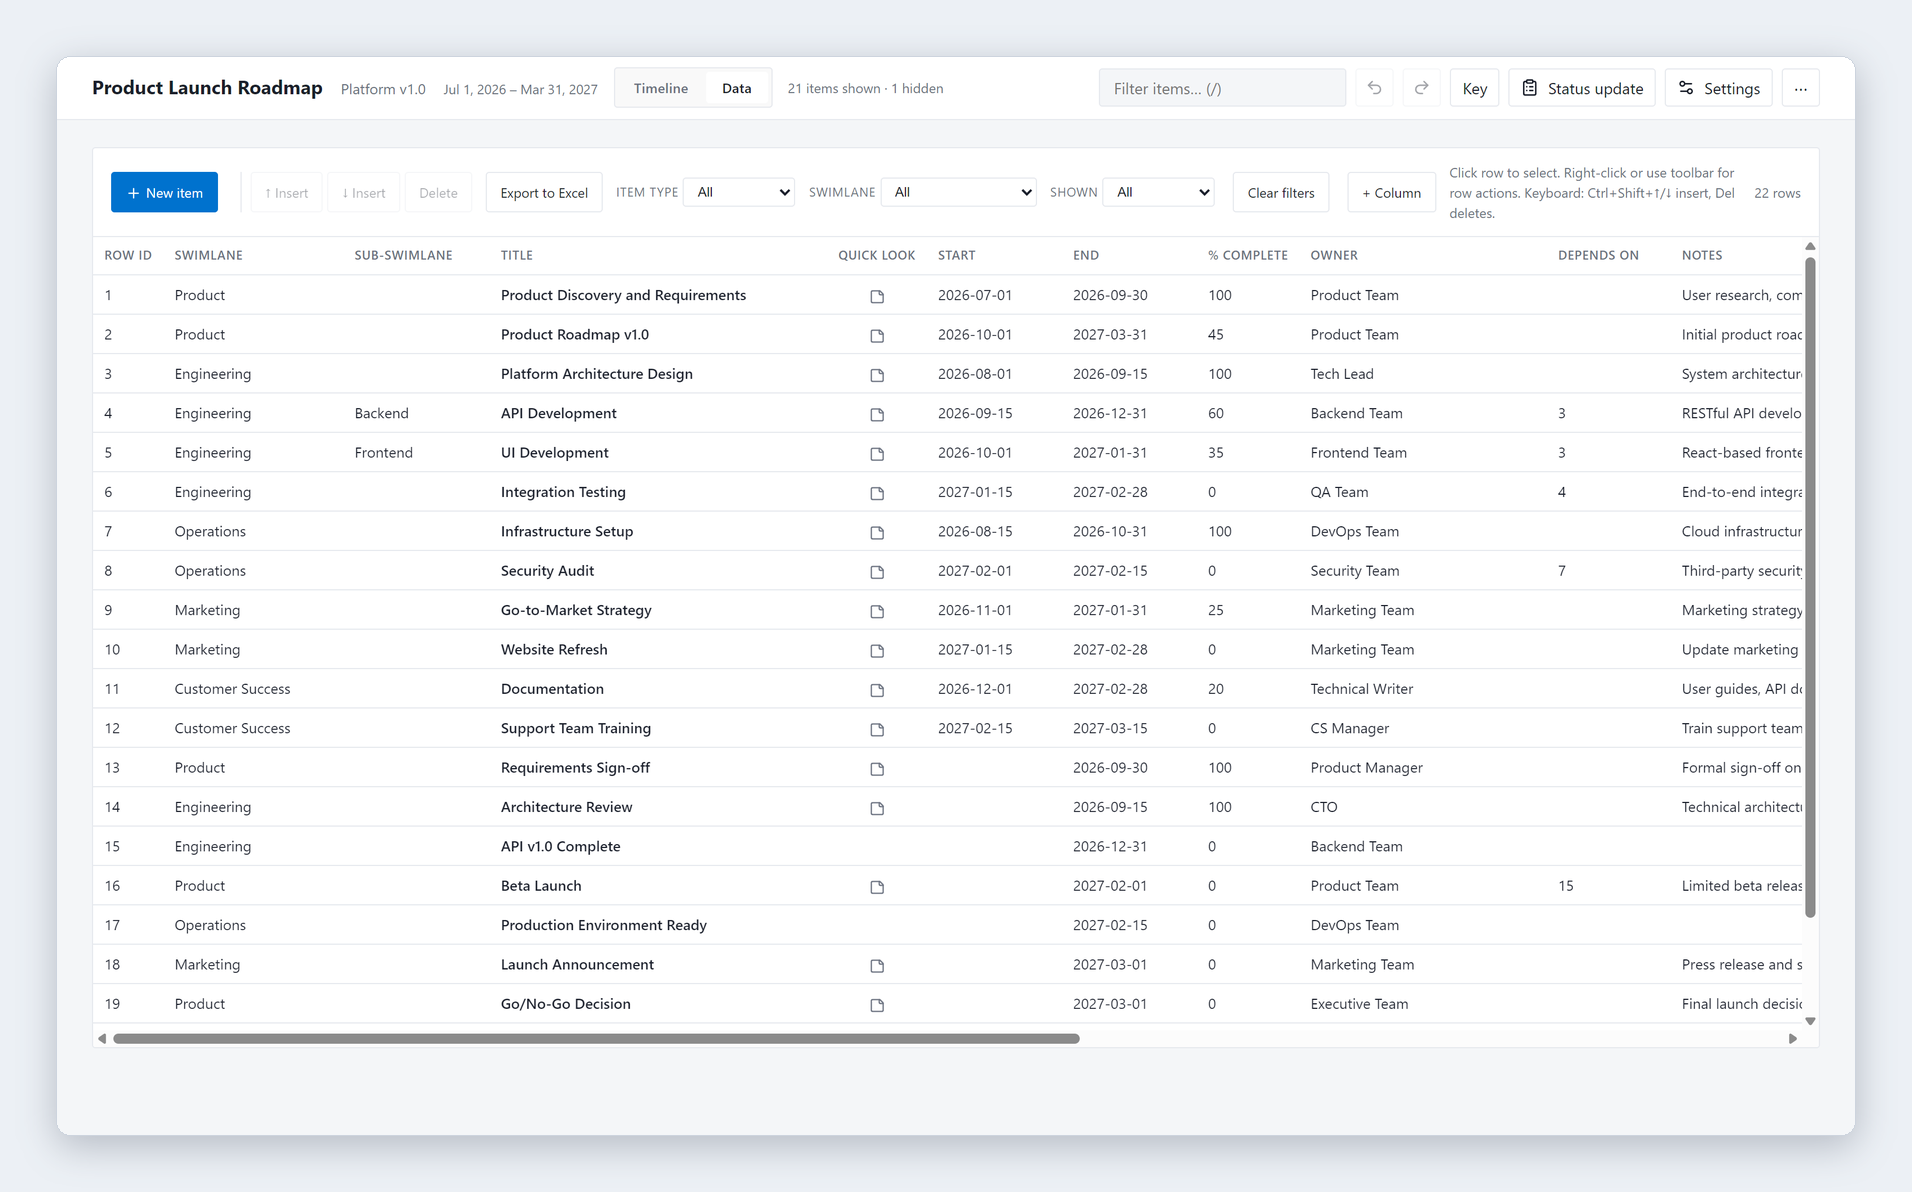
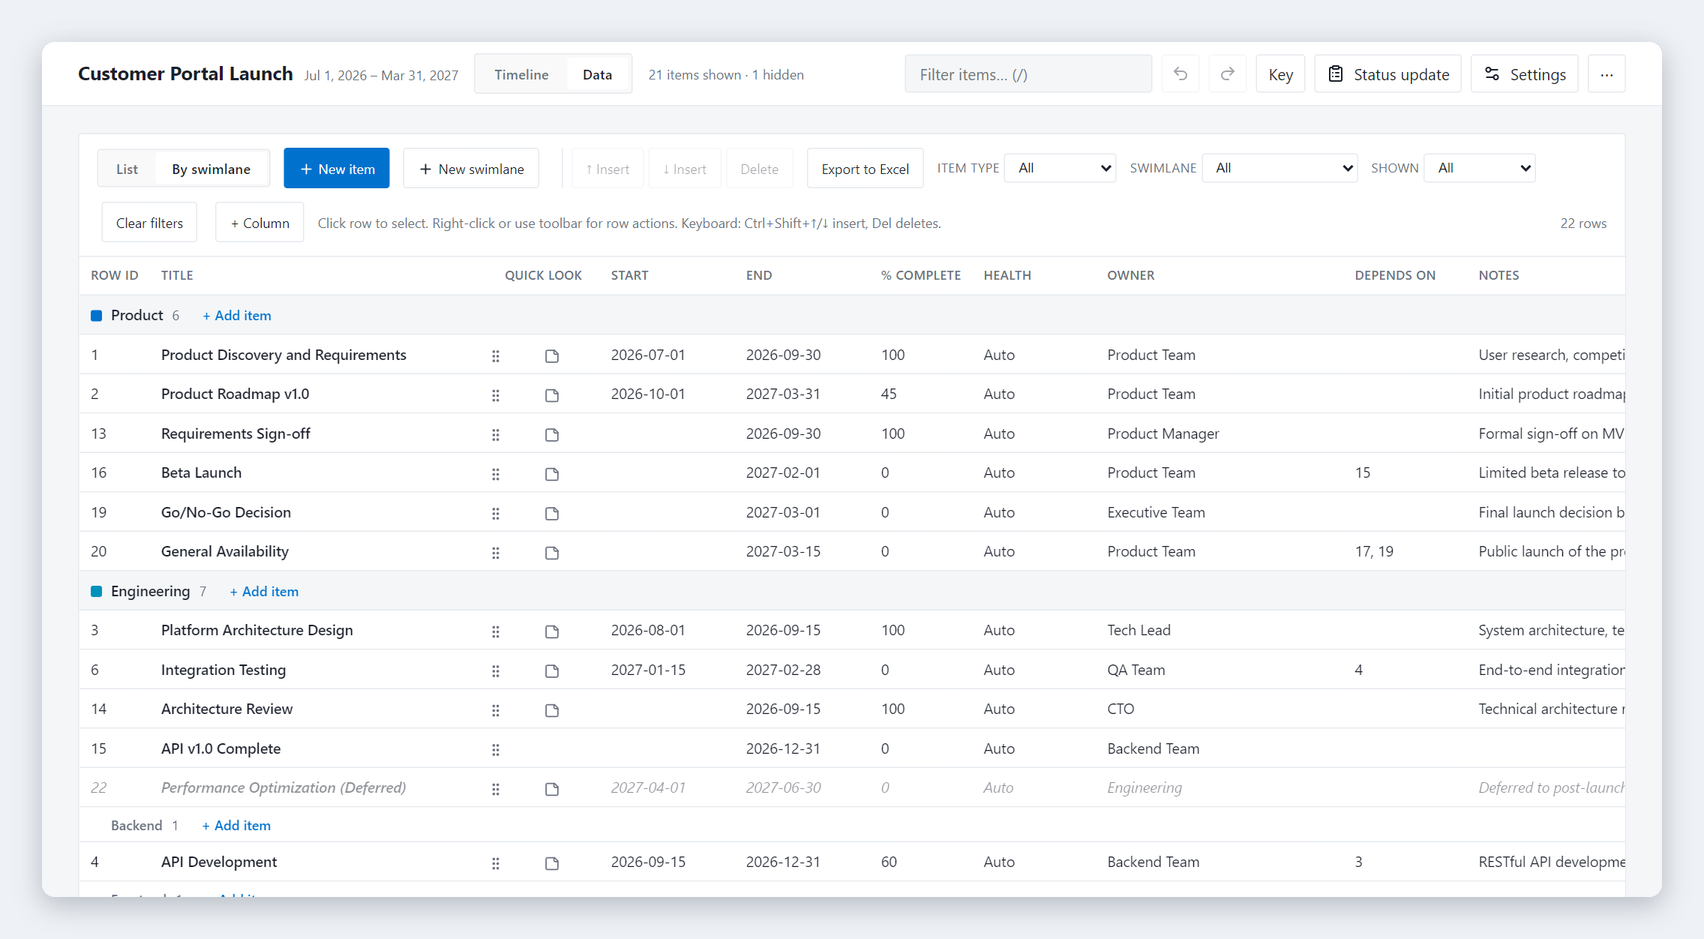
README: released 4.15 intro, features at a glance, fresh screenshots of Customer Portal Launch, SharePoint preview limits

diff --git a/README.md b/README.md
@@ -2,39 +2,44 @@
 
 **Timelines, without the platform.**
 
-Turn an Excel sheet into a swimlane timeline for any project, program or portfolio, in one HTML file that runs in any browser with no install, login or server.
+One HTML file. Excel in, steering-committee visuals out. No server, no login, no telemetry.
 
-![The Lanetrace timeline view with the built-in sample data](assets/screenshots/timeline.png)
+Lanetrace turns a spreadsheet into a swimlane timeline for a project, program or portfolio. It runs in any modern browser, and your data never leaves it.
+
+**Version 4.15.1.** [Download lanetrace.html](public/lanetrace.html), open it, and the sample plan loads. See the [changelog](CHANGELOG.md) for what's new.
+
+![The Lanetrace timeline for the Customer Portal Launch sample: color-coded swimlanes, phases, tasks and milestones across nine months](assets/screenshots/timeline.png)
 
 ## What It Does
 
-Lanetrace turns Excel data into professional timeline visuals. Drop in a spreadsheet, and get a presentation-ready roadmap with:
+Drop in a spreadsheet and get a roadmap you can put in front of executives:
 
-- **Swimlanes** for organizing work by team, phase, or workstream
-- **Multiple item types**: phases, tasks, milestones, events, decisions
+- **Swimlanes** for organizing work by team, phase or workstream, with sub-swimlanes
+- **Five item types**: phases, tasks, milestones, events and decisions
+- **Imports**: the Lanetrace Excel template, any Excel or CSV file, and exports from Microsoft Planner and Smartsheet
 - **Two ways to edit**: one item form, or inline in the Data view grid
 - **Exports**: SVG, PNG, PDF, PowerPoint, clipboard, Excel and CSV
 - **Status updates**: builds an AI prompt for a status email from your dates and progress
 - **Themes**: nine color packs, each in light, dark and auto modes
 - **Density options**: ultra-compact to spacious
 
-## Screenshots
+## Features at a Glance
 
 **Dark mode with dependency arrows.** Turn on arrows to see which items wait on others. Hover an item to highlight its chain.
 
-![The Lanetrace timeline in dark mode with dependency arrows](assets/screenshots/app-dark.png)
+![The timeline in dark mode with dependency arrows and the tooltip for Integration Testing](assets/screenshots/app-dark.png)
 
-**The Data view.** Edit inline like a spreadsheet, or open any row in the item form. Export the whole set to Excel.
+**The Data view, by swimlane.** Edit inline like a spreadsheet. By swimlane groups rows under each swimlane and sub-swimlane, and you can drag a row to another group.
 
-![The Data view grid with the sample data](assets/screenshots/data-view.png)
+![The Data view grouped by swimlane, with Product and Engineering groups](assets/screenshots/data-view.png)
 
-**The item form.** Title, type, owner and swimlane first, then schedule, dependencies, Markdown notes and appearance options.
+**Match the columns.** A file whose headers don't match the template opens this dialog. Pick the column for each field, check the preview, and Lanetrace remembers the choice for files with the same columns. Planner and Smartsheet exports map on their own.
 
-![The item form open on an Engineering phase](assets/screenshots/item-form.png)
+![The Match the columns dialog for a CSV with Task Name, Bucket Name, Start date and Due date columns](assets/screenshots/match-columns.png)
 
-**Status update.** Pick an audience and a look-ahead window, then copy a prompt for your approved AI assistant and the timeline image for your email.
+**A clear place to start.** With no items, the chart becomes a drop target with three ways in. When filters, hidden swimlanes or the Shown column hide everything, it says which and offers the fix.
 
-![The Status update dialog with a steering committee prompt](assets/screenshots/status-update.png)
+![The empty timeline: a dashed drop area with Load a file, Add item and Load the sample](assets/screenshots/empty-state.png)
 
 ## Why It Exists
 
@@ -43,12 +48,6 @@ Project, program and portfolio managers need timeline visuals for executive pres
 Lanetrace fills the gap: a free, portable tool that works from a single HTML file with no install required.
 
 It takes cues from Office Timeline (now Lucen), Microsoft Project, Microsoft Planner and SharePoint Lists.
-
-## Current Status
-
-**Early prototype / pre-release**
-
-Core functionality works, but the project is still being polished for public release. Expect rough edges.
 
 ## Quick Start
 
@@ -59,6 +58,7 @@ Core functionality works, but the project is still being polished for public rel
    - Click **Settings** > **Download template** to get the Excel template (a copy is also in [examples/](examples/))
    - Fill in your data. The template's Instructions sheet explains every column
    - Drag-drop the file onto the app (or click **Load file** in Settings). A CSV with the same headers works too
+   - A Planner or Smartsheet export loads as it is. Any other spreadsheet opens Match the columns
 
 ## Features
 
@@ -75,11 +75,22 @@ Core functionality works, but the project is still being polished for public rel
 
 ### Data View
 - Inline cell editing with dropdowns and suggestions
+- List or By swimlane layout. By swimlane groups sub-swimlanes too, and a row dragged onto another group moves there
 - New item opens the same item form the timeline uses
 - Quick look column: open the item, preview notes, row menu
 - Column reordering, custom columns and filters by swimlane, item type and visibility
 - Data checks flag unreadable dates and missing fields
 - Depends on column: list the Row IDs that must finish first. Lanetrace flags items that start before a predecessor finishes, unknown IDs and loops, and the status update names work waiting on late items
+
+**The item form.** Title, type, owner and swimlane first, then schedule, dependencies, Markdown notes and appearance options.
+
+![The item form open on API Development](assets/screenshots/item-form.png)
+
+### Imports
+- **Lanetrace template**: the Excel file from Settings, or one Lanetrace exported
+- **Microsoft Planner**: Export as Excel. Buckets become swimlanes and the plan name becomes the title
+- **Smartsheet**: Export to Excel. Indented rows become swimlanes and sub-swimlanes, and predecessors become dependencies
+- **Any other Excel or CSV file**: Match the columns maps its headers onto Lanetrace's fields
 
 ### Item Types
 | Type | Description |
@@ -89,6 +100,12 @@ Core functionality works, but the project is still being polished for public rel
 | Milestone | Diamond marker, single point in time |
 | Event | Triangle marker, external occurrence |
 | Decision | Star marker, choice point |
+
+### Status Updates
+
+Pick an audience and a look-ahead window, then copy a prompt for your approved AI assistant and the timeline image for your email.
+
+![The Status update dialog with a steering committee prompt for Customer Portal Launch](assets/screenshots/status-update.png)
 
 ### Exports
 - **SVG**: Vector format, editable in Illustrator/Figma
@@ -136,6 +153,16 @@ Optional: Use the sync folder feature (Chromium only) to persist settings to a l
 | Edge | Full support |
 | Firefox | localStorage only (no sync folder) |
 | Safari | localStorage only (no sync folder) |
+
+## SharePoint Preview
+
+Clicking the file in a SharePoint document library opens it in SharePoint's preview, which runs it in a locked-down sandbox. There you can view and present the timeline, but:
+
+- Edits and settings aren't saved. They reset when the file opens again
+- Downloads, exports, printing and copying the image are blocked. Those buttons say so when you click them
+- The sync folder doesn't work
+
+For everything, click **⋯** > **Download** in SharePoint and open the downloaded file. Details are in [docs/sharepoint-notes.md](docs/sharepoint-notes.md).
 
 ## Not a Gantt Chart
 
